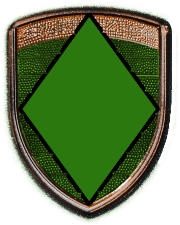
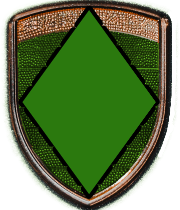
improved badge screen design p2

diff --git a/kanji_quiz_app/lib/screens/score_badges_screen.dart b/kanji_quiz_app/lib/screens/score_badges_screen.dart
@@ -80,32 +80,48 @@ class BadgesScreen extends ConsumerWidget {
             ),
             scrollDirection: Axis.horizontal,
             itemBuilder: (ctx, i) {
-              return Stack(
-                alignment: Alignment.center,
+              return Column(
                 children: [
                   Container(
+                    height: widgetHeight * 0.25,
                     decoration: BoxDecoration(
                       image: DecorationImage(
                         image: AssetImage(
-                          currentAmount > scoreBadgesList[i].amountToGet
-                              ? scoreBadgesList[i].backGroundAddress
-                              : "assets/images/grey_badge_template.png",
+                          "assets/images/crown_decoration.png",
                         ),
                         fit: BoxFit.fill,
                       ),
                     ),
                   ),
-                  Container(
-                    height: widgetHeight * 0.3,
-                    child: Text(
-                      "$badgesType" + "${scoreBadgesList[i].amountToGet}",
-                      style: TextStyle(
-                        fontSize: widgetHeight * 0.2,
-                        fontFamily: 'Lato',
-                        fontWeight: FontWeight.bold,
-                        color: Colors.white,
+                  Stack(
+                    alignment: Alignment.center,
+                    children: [
+                      Container(
+                        height: widgetHeight * 0.75,
+                        decoration: BoxDecoration(
+                          image: DecorationImage(
+                            image: AssetImage(
+                              currentAmount > scoreBadgesList[i].amountToGet
+                                  ? scoreBadgesList[i].backGroundAddress
+                                  : "assets/images/grey_badge_template2.png",
+                            ),
+                            fit: BoxFit.fill,
+                          ),
+                        ),
                       ),
-                    ),
+                      Container(
+                        height: widgetHeight * 0.3,
+                        child: Text(
+                          "$badgesType" + "${scoreBadgesList[i].amountToGet}",
+                          style: TextStyle(
+                            fontSize: widgetHeight * 0.2,
+                            fontFamily: 'Lato',
+                            fontWeight: FontWeight.bold,
+                            color: Colors.white,
+                          ),
+                        ),
+                      ),
+                    ],
                   ),
                 ],
               );
